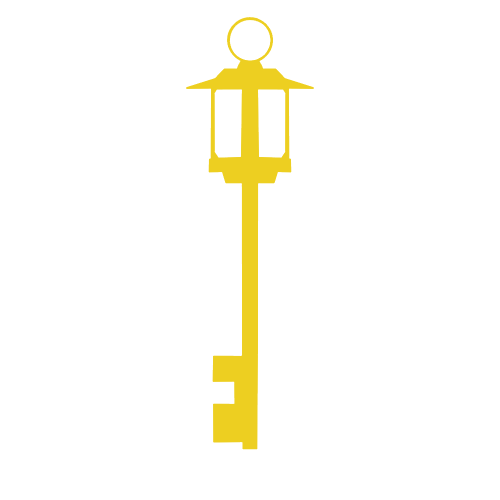
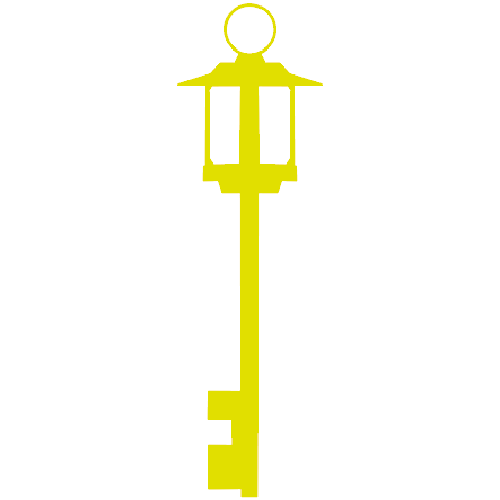
鍵のモデル切替完了

Changed region(s): [[0.36, 0.0, 0.66, 1.0]]

diff --git a/SourceFiles/scene/GamePlayScene.h b/SourceFiles/scene/GamePlayScene.h
@@ -25,7 +25,7 @@ private:
 	float timer = 0;
 	Sprite* ui = nullptr;
 	std::array<Sprite*, 8> candleUIs;
-	std::array<Sprite*, 1> keyUIs;
+	std::array<Sprite*, 6> keyUIs;
 	std::array<UIBox, 3> uiBoxes;
 
 	void (GamePlayScene::* UIUpdate)() = nullptr;
